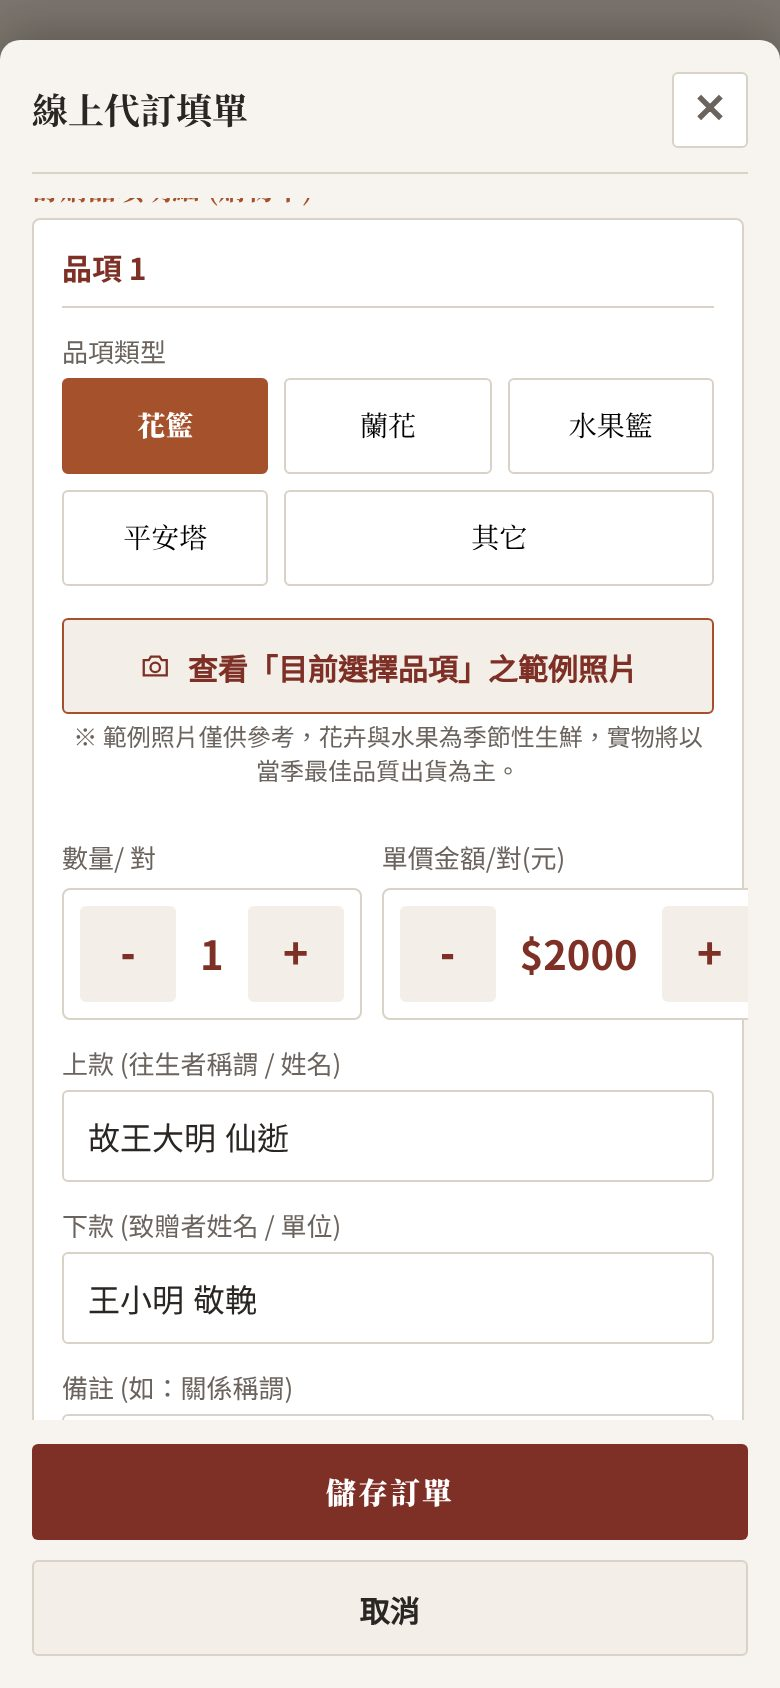
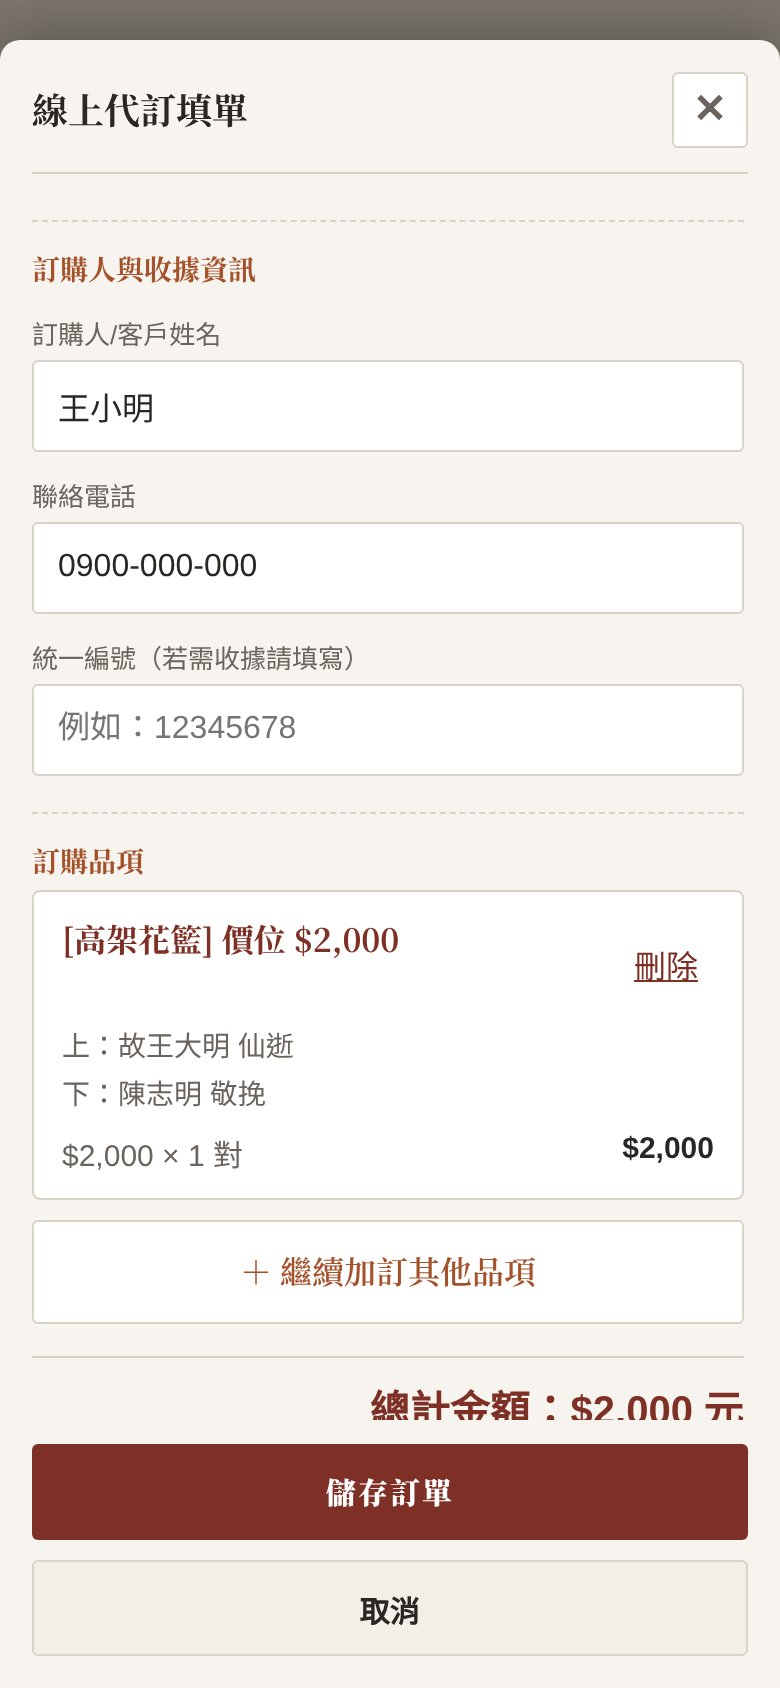
代訂說明頁：照新版親友下訂畫面重拍示範截圖，步驟改為 6 步
- 選品項／價位與致意卡、填姓名電話、確認致意卡、確認單 → LINE
- 截圖用示範資料，匯款帳號打馬賽克；新增 img/step5.jpg

Claude-Session: https://claude.ai/code/session_01Mm4Tpe3JL7znQyT3HNsjas

diff --git a/daiding.html b/daiding.html
@@ -96,26 +96,31 @@
     <p>親友用手機就能下訂，不用下載 App。以下是實際的手機畫面（示範資料）。</p>
     <ol class="steps">
     <li class="step"><span class="num">1</span><div>
-      <p class="say">打開文彥給您的<b>專屬連結</b>，往生者、地點、日期都已經填好，按「開始填寫代訂單」。</p>
+      <p class="say">打開文彥給您的<b>專屬連結</b>，往生者、地點、日期都已經填好，下面就是可以代訂的品項。</p>
       <span class="tag">示範畫面・點圖可放大</span>
-      <button type="button" class="shot" data-src="img/step1.jpg"><img src="img/step1.jpg" alt="示範：專屬連結打開後的畫面" loading="lazy"></button>
+      <button type="button" class="shot" data-src="img/step1.jpg"><img src="img/step1.jpg" alt="示範：專屬連結打開後的品項清單" loading="lazy"></button>
     </div></li>
     <li class="step"><span class="num">2</span><div>
-      <p class="say">填上您的<b>姓名</b>和<b>電話</b>。</p>
+      <p class="say">點想訂的<b>品項</b>，選<b>價位</b>，填上致意卡的<b>具名</b>，按「加入訂購」。</p>
       <span class="tag">示範畫面・點圖可放大</span>
-      <button type="button" class="shot" data-src="img/step2.jpg"><img src="img/step2.jpg" alt="示範：填寫訂購人姓名電話" loading="lazy"></button>
+      <button type="button" class="shot" data-src="img/step2.jpg"><img src="img/step2.jpg" alt="示範：選價位與填致意卡" loading="lazy"></button>
     </div></li>
     <li class="step"><span class="num">3</span><div>
-      <p class="say">選<b>品項</b>（花籃、蘭花、水果籃、平安塔），填上輓聯，金額會自動算好，按「儲存訂單」。</p>
+      <p class="say">按下方「<b>填寫訂購資料</b>」，填上您的<b>姓名</b>和<b>電話</b>，按「儲存訂單」。</p>
       <span class="tag">示範畫面・點圖可放大</span>
-      <button type="button" class="shot" data-src="img/step3.jpg"><img src="img/step3.jpg" alt="示範：選品項與填輓聯" loading="lazy"></button>
+      <button type="button" class="shot" data-src="img/step3.jpg"><img src="img/step3.jpg" alt="示範：填寫訂購人姓名電話" loading="lazy"></button>
     </div></li>
     <li class="step"><span class="num">4</span><div>
-      <p class="say">核對確認單，按綠色的「<b>一鍵複製並開啟 LINE 傳送</b>」。</p>
+      <p class="say"><b>逐字確認致意卡</b>上的字，打勾後按「確認送出」。</p>
       <span class="tag">示範畫面・點圖可放大</span>
-      <button type="button" class="shot" data-src="img/step4.jpg"><img src="img/step4.jpg" alt="示範：客戶確認單" loading="lazy"></button>
+      <button type="button" class="shot" data-src="img/step4.jpg"><img src="img/step4.jpg" alt="示範：確認致意卡" loading="lazy"></button>
     </div></li>
     <li class="step"><span class="num">5</span><div>
+      <p class="say">核對確認單，按綠色的「<b>一鍵複製並開啟 LINE 傳送</b>」。</p>
+      <span class="tag">示範畫面・點圖可放大</span>
+      <button type="button" class="shot" data-src="img/step5.jpg"><img src="img/step5.jpg" alt="示範：客戶確認單" loading="lazy"></button>
+    </div></li>
+    <li class="step"><span class="num">6</span><div>
       <p class="say">手機會自動打開重生禮儀的 LINE。按「<b>加入好友</b>」，在對話框長按、選「<b>貼上</b>」，再按送出，就訂好了。</p>
       <div class="step-line"><svg class="ico" viewBox="0 0 24 24" aria-hidden="true"><path d="M12 4C7 4 3 7.2 3 11.2c0 3.6 3.2 6.6 7.5 7.1l-.5 2.7 3.6-2.7c4.6-.4 7.4-3.4 7.4-7.1C21 7.2 17 4 12 4z"/></svg>訂單內容已經幫您複製好，不用自己打字。</div>
     </div></li>
